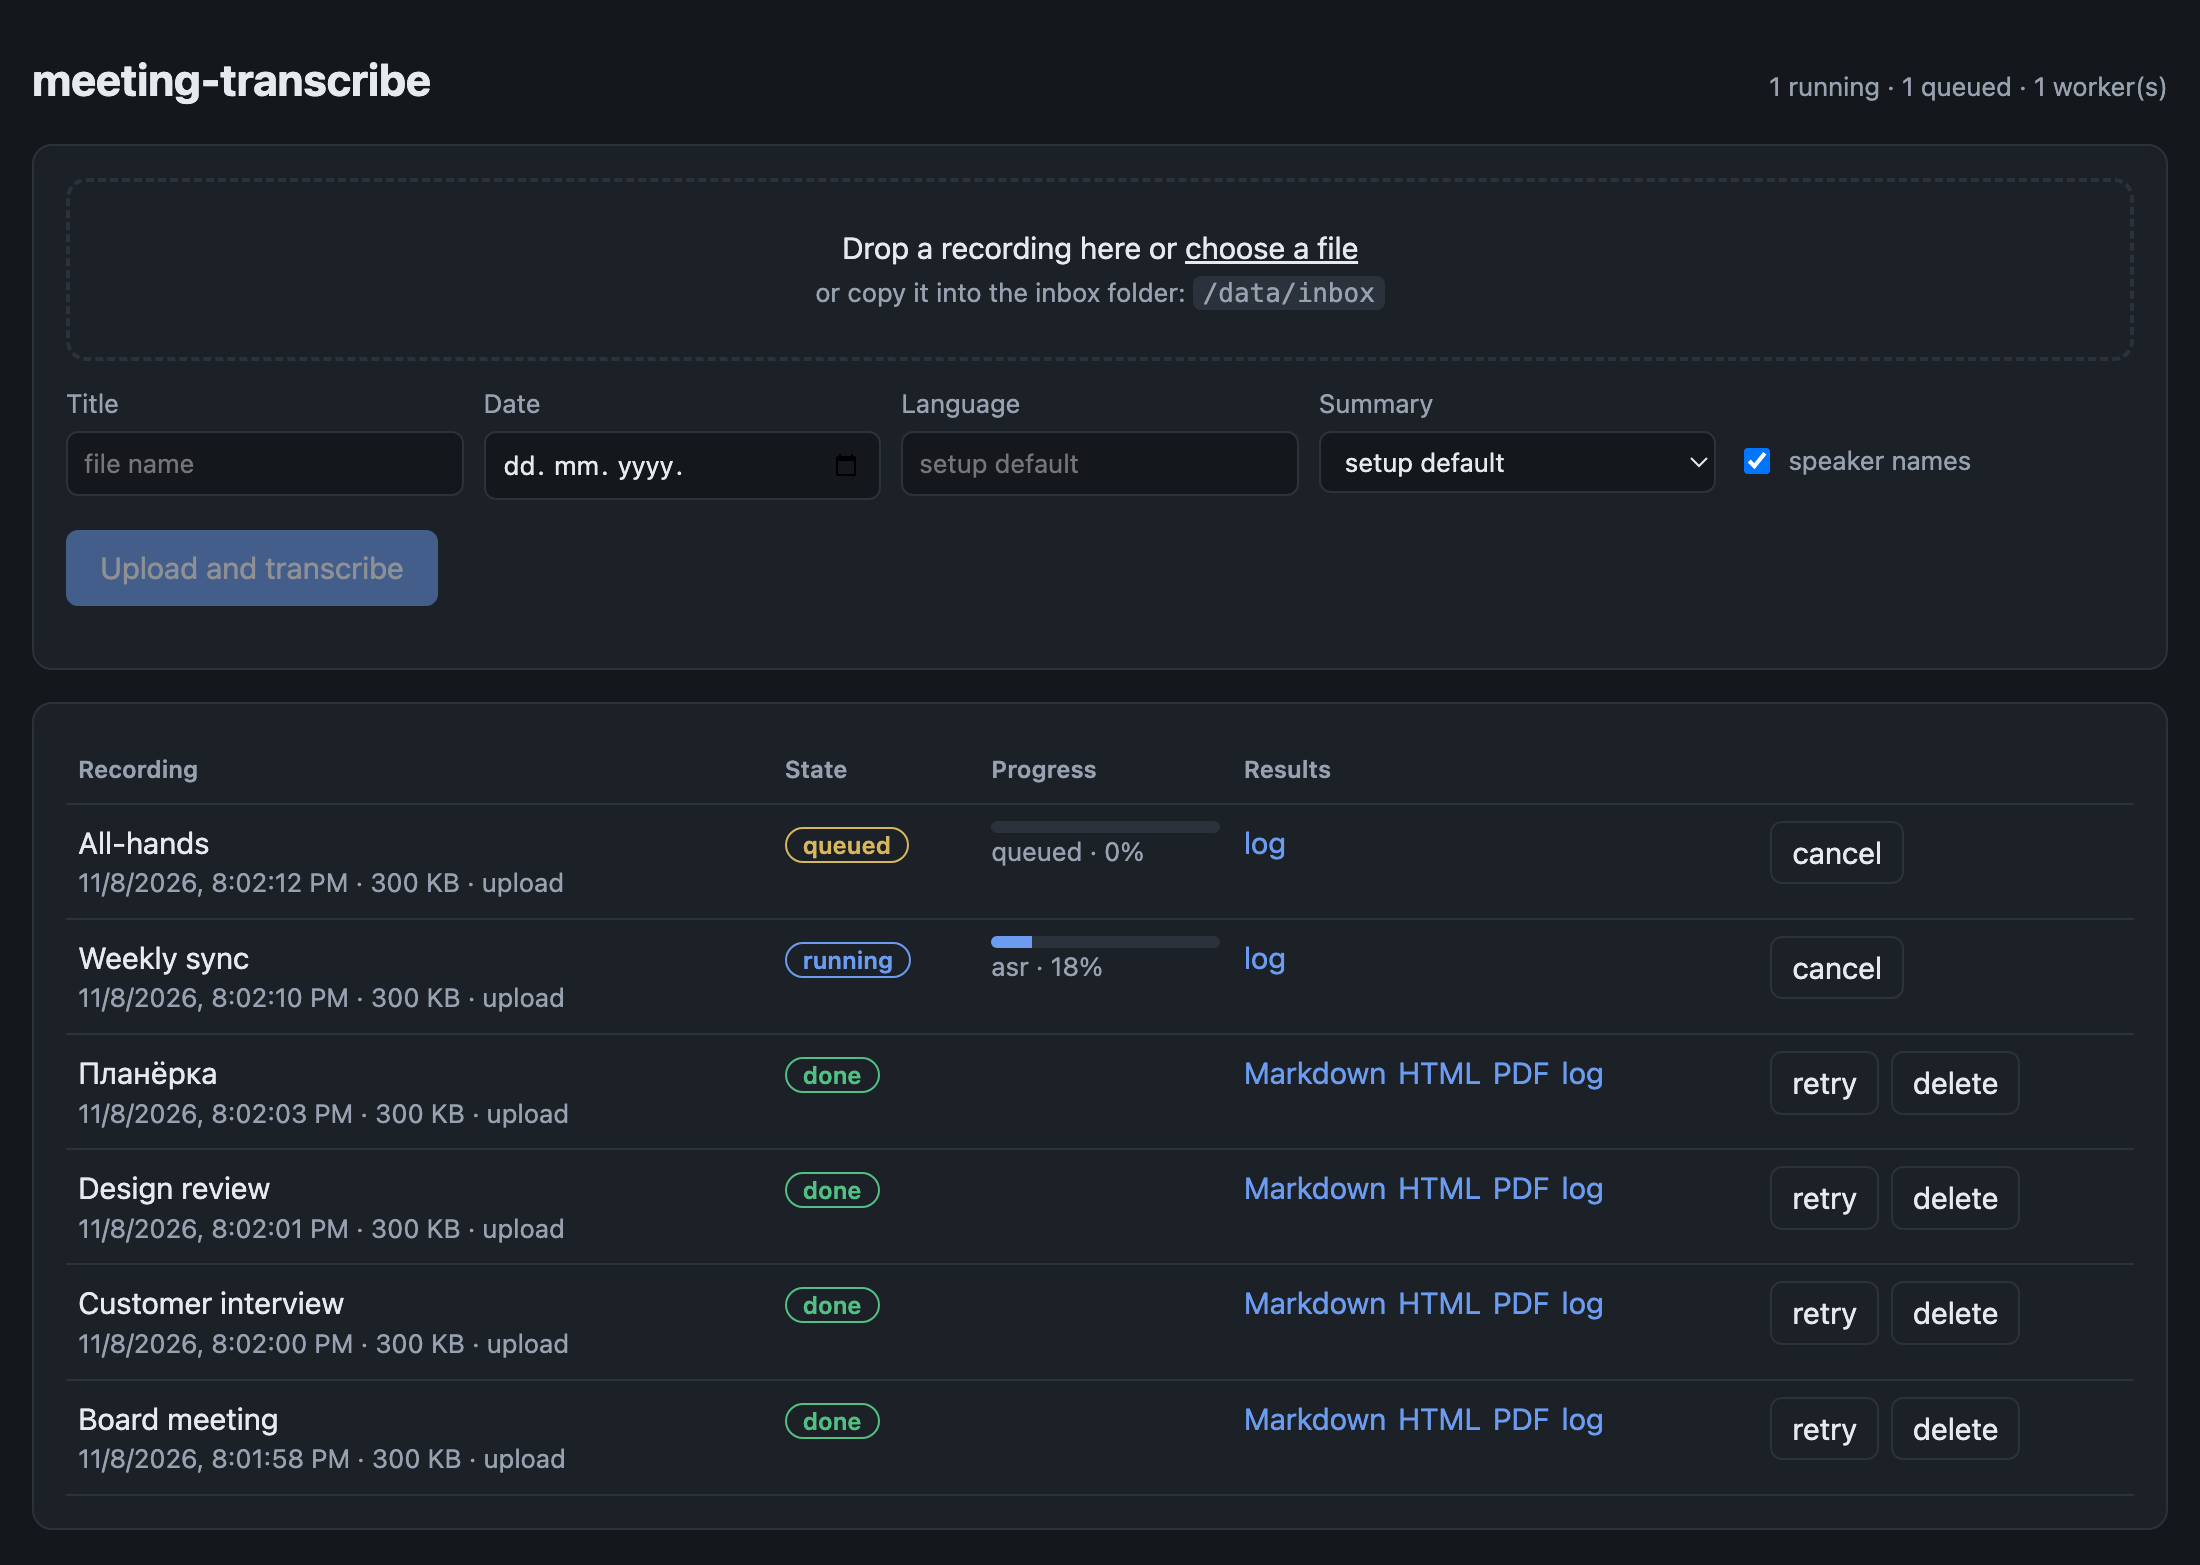
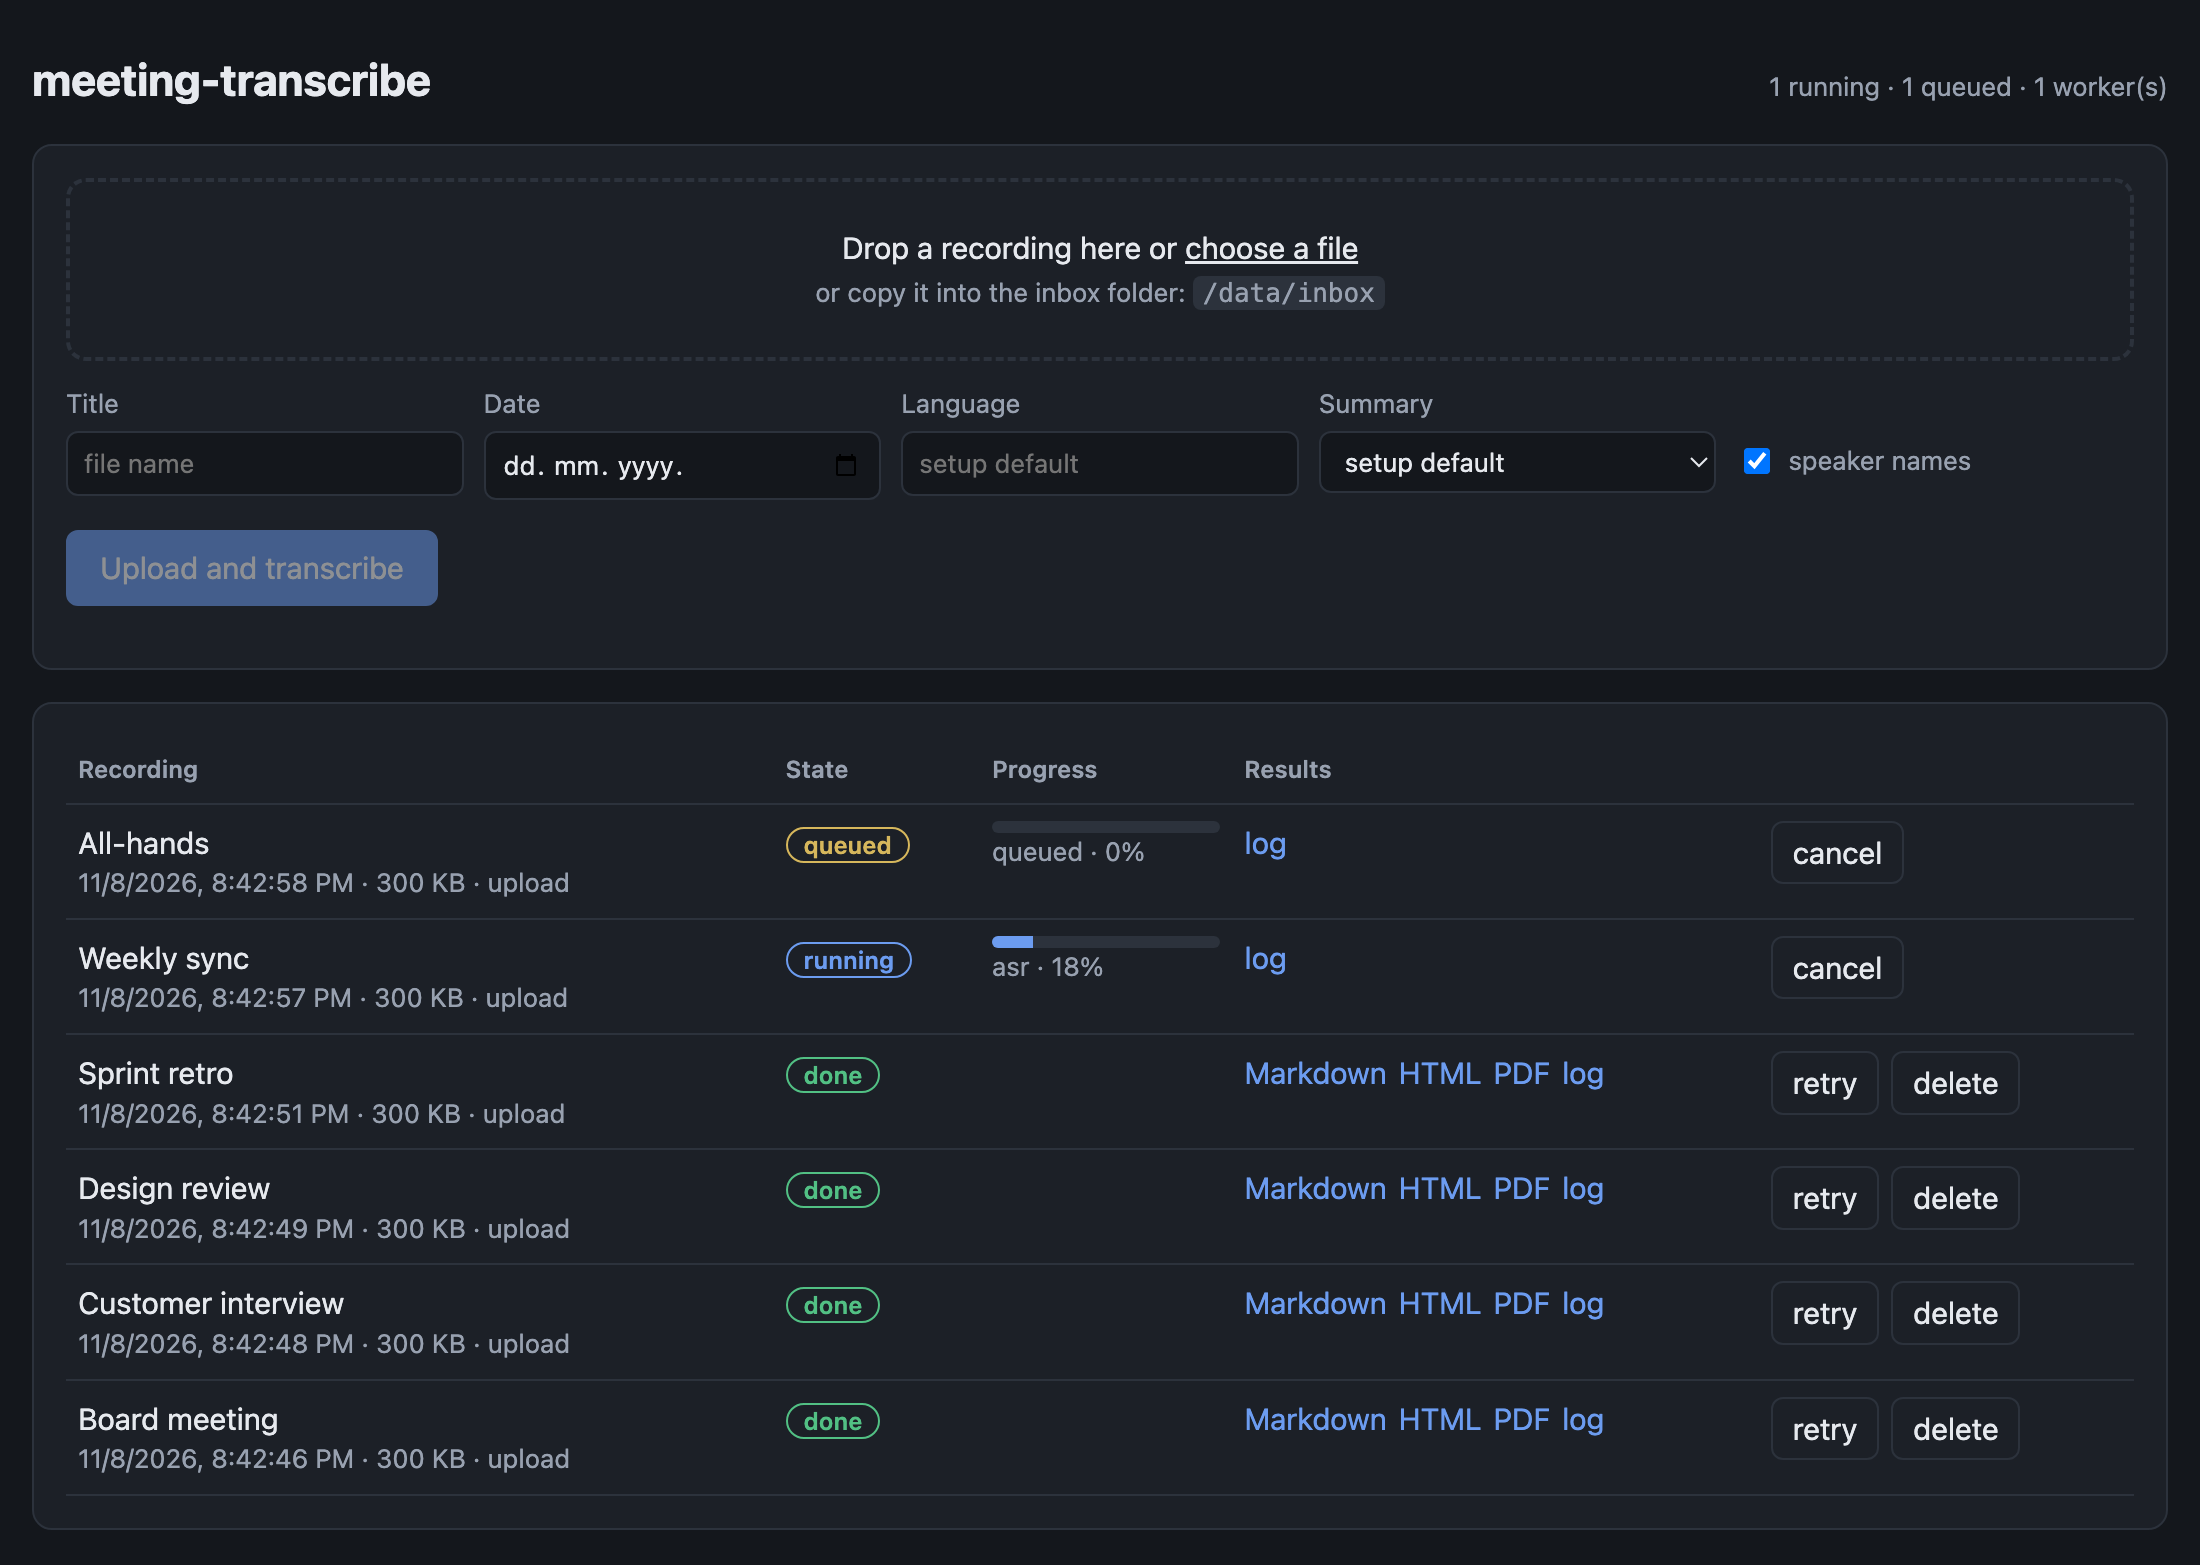
Service: Linux test without ps, one operation ID per upload method, English-only UI screenshots

diff --git a/scripts/serve_api.py b/scripts/serve_api.py
@@ -68,7 +68,8 @@ def build_app(svc) -> FastAPI:
         return {"jobs": [j.to_dict() for j in store.all(limit=max(1, min(limit, 1000)))]}
 
     # PUT too: `curl -T file` uploads with PUT
-    @api.api_route("/jobs", methods=["POST", "PUT"], status_code=201)
+    @api.post("/jobs", status_code=201, operation_id="upload")
+    @api.put("/jobs", status_code=201, operation_id="upload_put", include_in_schema=False)
     async def upload(request: Request):
         q = request.query_params
         name = (q.get("name") or "").replace("\\", "/").rsplit("/", 1)[-1].strip()

diff --git a/tests/test_serve_worker.py b/tests/test_serve_worker.py
@@ -3,6 +3,7 @@ shutdown, parallel workers, the webhook and the S3 upload."""
 import http.server
 import json
 import os
+import shutil
 import threading
 import time
 
@@ -148,6 +149,7 @@ def test_stop_group_waits_for_the_whole_group():
     assert not group_alive(proc.pid)
 
 
+@pytest.mark.skipif(shutil.which("ps") is None, reason="without ps the service leaves old processes alone")
 def test_a_new_attempt_stops_the_old_one_and_its_lock(store, tmp_path):
     import subprocess
     job = make_job(store, tmp_path)
